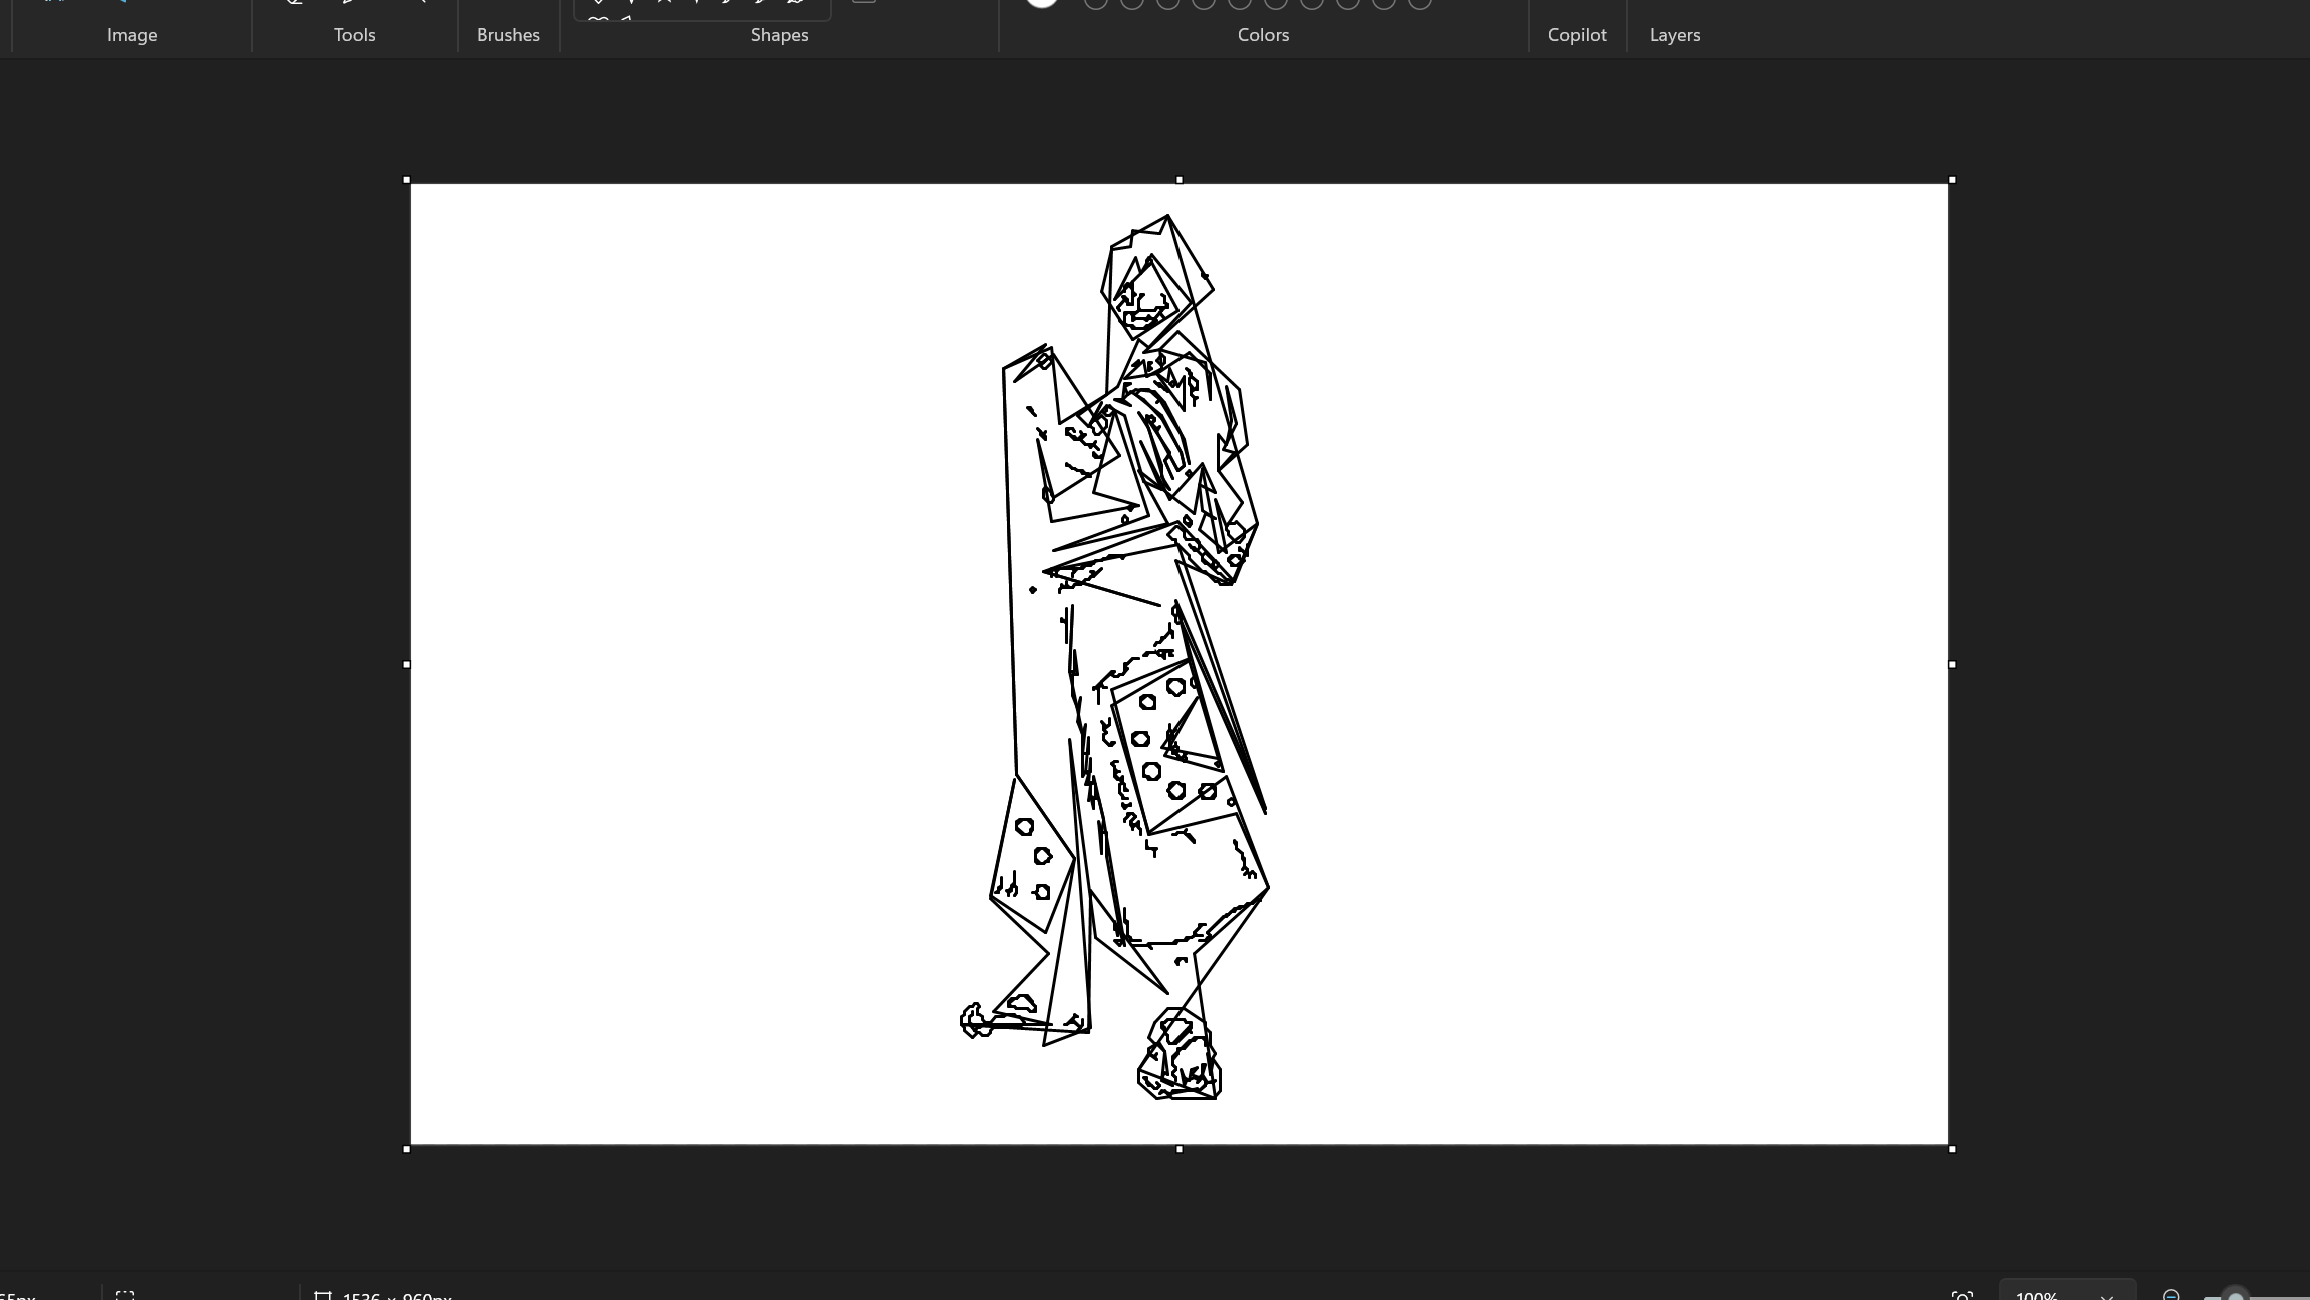
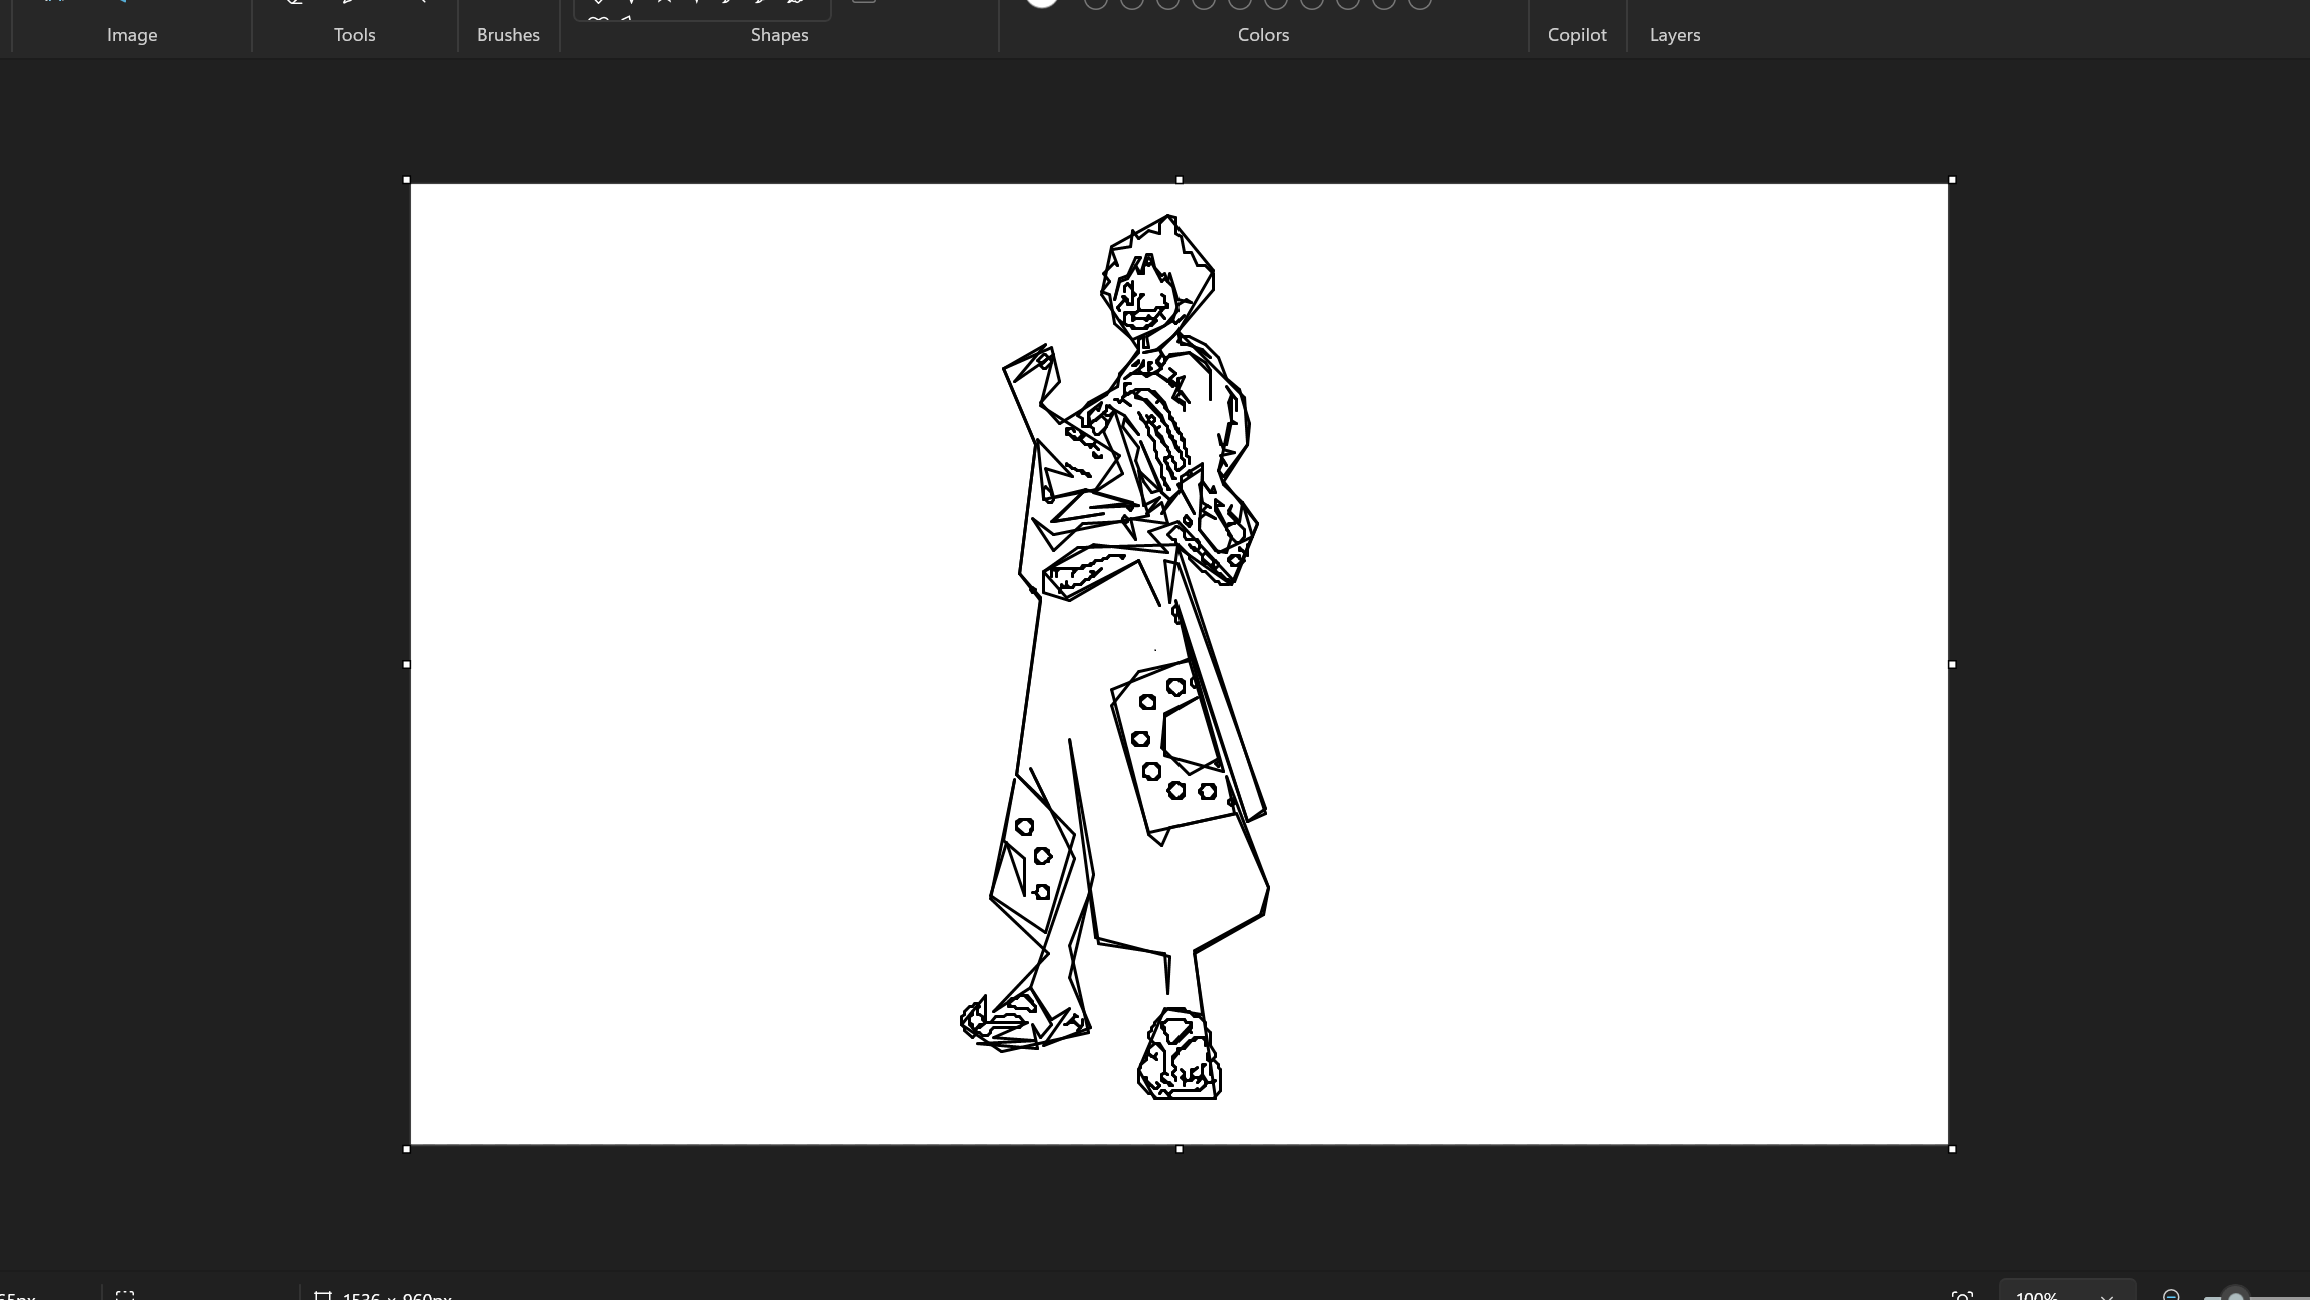
modify

Changed region(s): [[0.4052, 0.1538, 0.561, 0.8308]]

diff --git a/test_morning_24_10.py b/test_morning_24_10.py
@@ -275,7 +275,7 @@ Recommend optimal OpenCV parameters for contour detection. Return ONLY valid JSO
         "canny_low": 10,
         "canny_high": 40,
         "min_area": 2,
-        "epsilon_factor": 0.003,
+        "epsilon_factor": 0.001,
         "max_contours": 2000
     }},
     "region_strategies": {{
@@ -313,7 +313,7 @@ Guidelines:
 - Lower Canny thresholds = more details (5-15 for very detailed areas)
 - Higher thresholds = cleaner lines (20-60 for simple areas)
 - min_area: 1-5 (lower = more small details)
-- epsilon_factor: 0.001-0.01 (lower = more accurate contours)
+- epsilon_factor: 0.0005-0.002 (lower = more accurate contours)
 - For anime: prioritize face/eyes with lowest thresholds
 - adaptive_speed: slower (0.02-0.05) for detailed areas, faster (0.005-0.01) for simple areas
 
@@ -1215,3 +1215,4 @@ def main():
 
 if __name__ == "__main__":
     main()
+    
